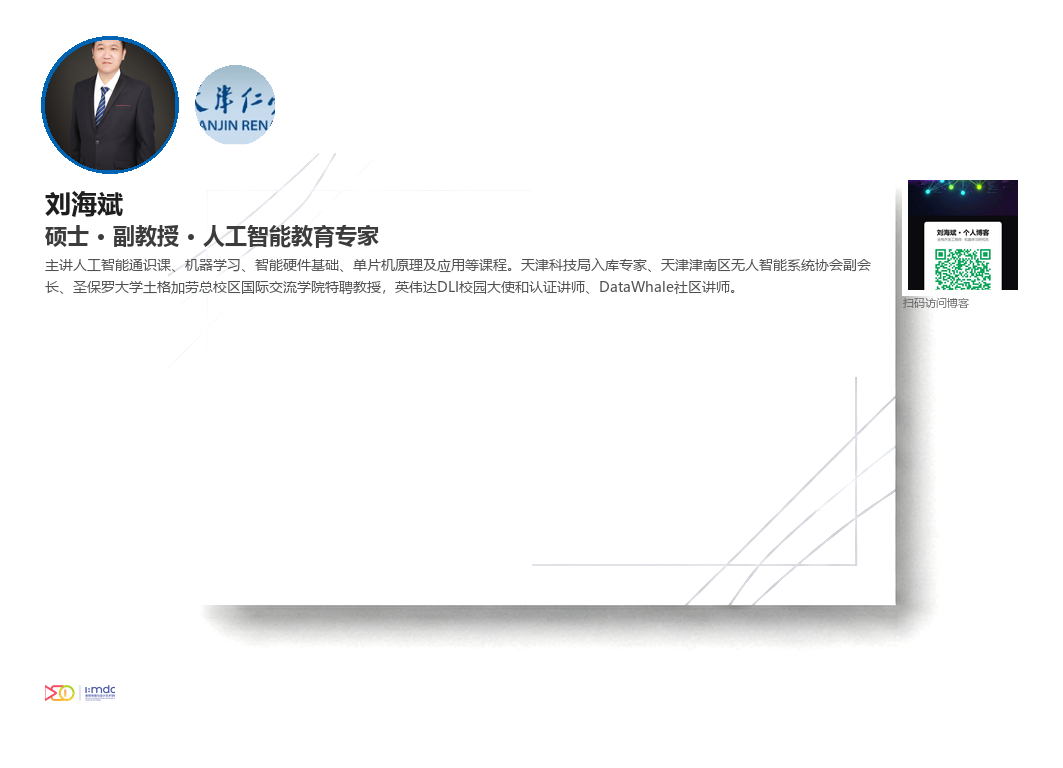
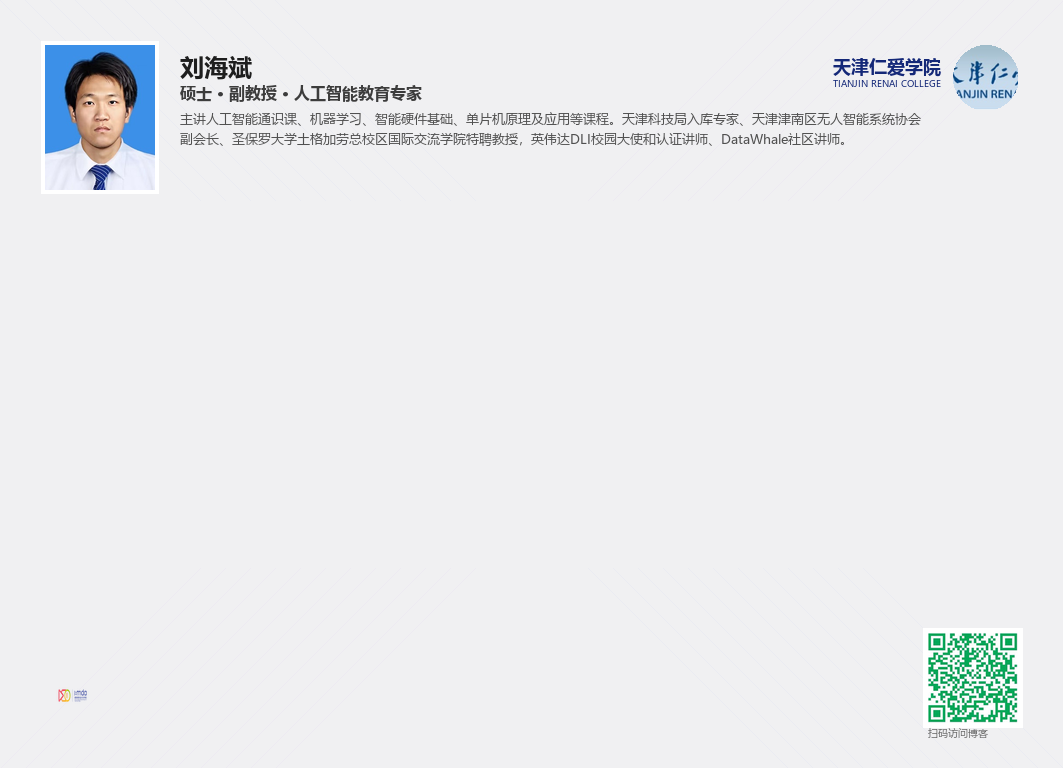
按合成效果图布局重生成名片正面:四角布局(头像/校徽校名/学院徽/二维码)+中间个人简介,浅灰背景+斜线装饰

diff --git a/_gen_card_front.py b/_gen_card_front.py
@@ -1,0 +1,194 @@
+"""
+个人名片正面 - 参考合成效果图布局
+四角布局: 左上头像/右上校徽+校名/左下学院徽/右下二维码
+中间: 个人简介
+尺寸: 9cm x 6.5cm @ 300DPI = 1063x768px
+"""
+import os
+from PIL import Image, ImageDraw, ImageFont, ImageEnhance
+
+RES_DIR = r"c:\Users\Dell\Desktop\个人播客\个人名片图片资源"
+OUTPUT_DIR = r"c:\Users\Dell\Desktop\个人播客\个人名片"
+os.makedirs(OUTPUT_DIR, exist_ok=True)
+
+CARD_W = 1063
+CARD_H = 768
+BORDER = 30
+
+FONT_BOLD = r"C:\Windows\Fonts\msyhbd.ttc"
+FONT_REG = r"C:\Windows\Fonts\msyh.ttc"
+
+NAME = "刘海斌"
+TITLE = "硕士 · 副教授 · 人工智能教育专家"
+INTRO = "主讲人工智能通识课、机器学习、智能硬件基础、单片机原理及应用等课程。天津科技局入库专家、天津津南区无人智能系统协会副会长、圣保罗大学土格加劳总校区国际交流学院特聘教授，英伟达DLI校园大使和认证讲师、DataWhale社区讲师。"
+
+SCHOOL_NAME_CN = "天津仁爱学院"
+SCHOOL_NAME_EN = "TIANJIN RENAI COLLEGE"
+
+
+def compose_front():
+    # 1. 浅灰白背景
+    card = Image.new("RGB", (CARD_W, CARD_H), (240, 240, 242))
+    draw = ImageDraw.Draw(card)
+
+    # 2. 斜线装饰 (淡紫/淡蓝)
+    overlay = Image.new("RGBA", (CARD_W, CARD_H), (240, 240, 242, 0))
+    odraw = ImageDraw.Draw(overlay)
+    # 左上角斜线
+    for i in range(0, 300, 25):
+        odraw.line([(i, 0), (i + 200, 200)], fill=(200, 210, 240, 40), width=1)
+    # 右上角斜线
+    for i in range(0, 300, 25):
+        x_start = CARD_W - i
+        odraw.line([(x_start, 0), (x_start - 200, 200)], fill=(220, 200, 240, 40), width=1)
+    # 右下角斜线
+    for i in range(0, 300, 25):
+        x_start = CARD_W - i
+        y_start = CARD_H
+        odraw.line([(x_start, y_start), (x_start - 200, y_start - 200)], fill=(200, 210, 240, 40), width=1)
+    # 左下角斜线
+    for i in range(0, 300, 25):
+        odraw.line([(i, CARD_H), (i + 200, CARD_H - 200)], fill=(220, 200, 240, 40), width=1)
+
+    card = Image.alpha_composite(card.convert("RGBA"), overlay).convert("RGB")
+    draw = ImageDraw.Draw(card)
+
+    # 字体
+    f_name = ImageFont.truetype(FONT_BOLD, 24)
+    f_title = ImageFont.truetype(FONT_BOLD, 16)
+    f_intro = ImageFont.truetype(FONT_REG, 13)
+    f_school_cn = ImageFont.truetype(FONT_BOLD, 18)
+    f_school_en = ImageFont.truetype(FONT_REG, 9)
+    f_qr_label = ImageFont.truetype(FONT_REG, 10)
+
+    # === 左上角: 个人头像 (矩形证件照) ===
+    photo_path = os.path.join(RES_DIR, "个人头像.jpg")
+    avatar_w = 110
+    avatar_h = 145
+    avatar_x = BORDER + 15
+    avatar_y = BORDER + 15
+
+    if os.path.exists(photo_path):
+        photo = Image.open(photo_path).convert("RGBA")
+        pw, ph = photo.size
+        # 保持比例裁剪到目标宽高比
+        target_ratio = avatar_w / avatar_h
+        current_ratio = pw / ph
+        if current_ratio > target_ratio:
+            new_w = int(ph * target_ratio)
+            left = (pw - new_w) // 2
+            photo = photo.crop((left, 0, left + new_w, ph))
+        else:
+            new_h = int(pw / target_ratio)
+            top = (ph - new_h) // 2
+            photo = photo.crop((0, top, pw, top + new_h))
+        photo = photo.resize((avatar_w, avatar_h), Image.LANCZOS)
+
+        # 白色边框
+        border_pad = 4
+        white_border = Image.new("RGBA", (avatar_w + border_pad * 2, avatar_h + border_pad * 2), (255, 255, 255, 255))
+        card.paste(white_border, (avatar_x - border_pad, avatar_y - border_pad), white_border)
+        card.paste(photo, (avatar_x, avatar_y), photo)
+
+    # === 右上角: 校徽 + 校名 ===
+    school_badge_path = os.path.join(RES_DIR, "校徽.jpg")
+    badge_size = 65
+    badge_x = CARD_W - BORDER - badge_size - 15
+    badge_y = BORDER + 15
+
+    if os.path.exists(school_badge_path):
+        badge = Image.open(school_badge_path).convert("RGBA")
+        bw, bh = badge.size
+        bcs = min(bw, bh)
+        bl = (bw - bcs) // 2
+        bt = (bh - bcs) // 2
+        badge = badge.crop((bl, bt, bl + bcs, bt + bcs))
+        badge = badge.resize((badge_size, badge_size), Image.LANCZOS)
+        bmask = Image.new("L", (badge_size, badge_size), 0)
+        bmask_draw = ImageDraw.Draw(bmask)
+        bmask_draw.ellipse((0, 0, badge_size, badge_size), fill=255)
+        card.paste(badge, (badge_x, badge_y), bmask)
+
+    # 校名 (校徽左侧, 因为校徽在右上角)
+    school_text_x = badge_x - 10
+    # 先测量校名宽度
+    cn_bbox = draw.textbbox((0, 0), SCHOOL_NAME_CN, font=f_school_cn)
+    cn_w = cn_bbox[2] - cn_bbox[0]
+    school_text_x = badge_x - cn_w - 12
+
+    draw.text((school_text_x, badge_y + 8), SCHOOL_NAME_CN, fill=(20, 40, 120), font=f_school_cn)
+    en_bbox = draw.textbbox((0, 0), SCHOOL_NAME_EN, font=f_school_en)
+    en_w = en_bbox[2] - en_bbox[0]
+    draw.text((badge_x - en_w - 12, badge_y + 32), SCHOOL_NAME_EN, fill=(20, 40, 120), font=f_school_en)
+
+    # === 中间: 姓名 + 职称 + 简介 ===
+    center_x = avatar_x + avatar_w + 25
+    center_y = avatar_y + 5
+    max_text_w = badge_x - 20 - center_x  # 不超过校名区域
+
+    # 姓名
+    draw.text((center_x, center_y), NAME, fill=(30, 30, 30), font=f_name)
+    # 职称
+    draw.text((center_x, center_y + 32), TITLE, fill=(60, 60, 60), font=f_title)
+
+    # 简介文字 (自动换行)
+    intro_y = center_y + 60
+    intro_lines = []
+    current_line = ""
+    for ch in INTRO:
+        test_line = current_line + ch
+        bbox = draw.textbbox((0, 0), test_line, font=f_intro)
+        if bbox[2] - bbox[0] > max_text_w:
+            if current_line:
+                intro_lines.append(current_line)
+            current_line = ch
+        else:
+            current_line = test_line
+    if current_line:
+        intro_lines.append(current_line)
+
+    for i, line in enumerate(intro_lines):
+        draw.text((center_x, intro_y + i * 20), line, fill=(80, 80, 80), font=f_intro)
+
+    # === 左下角: 学院徽章 ===
+    college_path = os.path.join(RES_DIR, "学院徽.png")
+    college_size = 55
+    college_x = BORDER + 15
+    college_y = CARD_H - BORDER - college_size - 15
+
+    if os.path.exists(college_path):
+        college = Image.open(college_path).convert("RGBA")
+        cw, ch = college.size
+        college = college.resize((college_size, college_size), Image.LANCZOS)
+        card.paste(college, (college_x, college_y), college)
+
+    # === 右下角: 二维码 ===
+    qr_path = os.path.join(RES_DIR, "二维码.jpg")
+    qr_size = 90
+    qr_x = CARD_W - BORDER - qr_size - 15
+    qr_y = CARD_H - BORDER - qr_size - 15
+
+    if os.path.exists(qr_path):
+        qr = Image.open(qr_path).convert("RGBA")
+        qw, qh = qr.size
+        qcs = min(qw, qh)
+        ql = (qw - qcs) // 2
+        qt = (qh - qcs) // 2
+        qr = qr.crop((ql, qt, ql + qcs, qt + qcs))
+        qr = qr.resize((qr_size, qr_size), Image.LANCZOS)
+        # 白色背景框
+        qr_bg = Image.new("RGBA", (qr_size + 10, qr_size + 10), (255, 255, 255, 255))
+        card.paste(qr_bg, (qr_x - 5, qr_y - 5), qr_bg)
+        card.paste(qr, (qr_x, qr_y), qr)
+        draw.text((qr_x, qr_y + qr_size + 3), "扫码访问博客", fill=(100, 100, 100), font=f_qr_label)
+
+    # 保存
+    out_path = os.path.join(OUTPUT_DIR, "名片_正面.png")
+    card.save(out_path, "PNG", dpi=(300, 300))
+    print(f"名片正面已保存: {out_path}")
+    print(f"尺寸: {CARD_W}x{CARD_H}px (9cm x 6.5cm @ 300DPI)")
+    return out_path
+
+
+if __name__ == "__main__":
+    compose_front()
